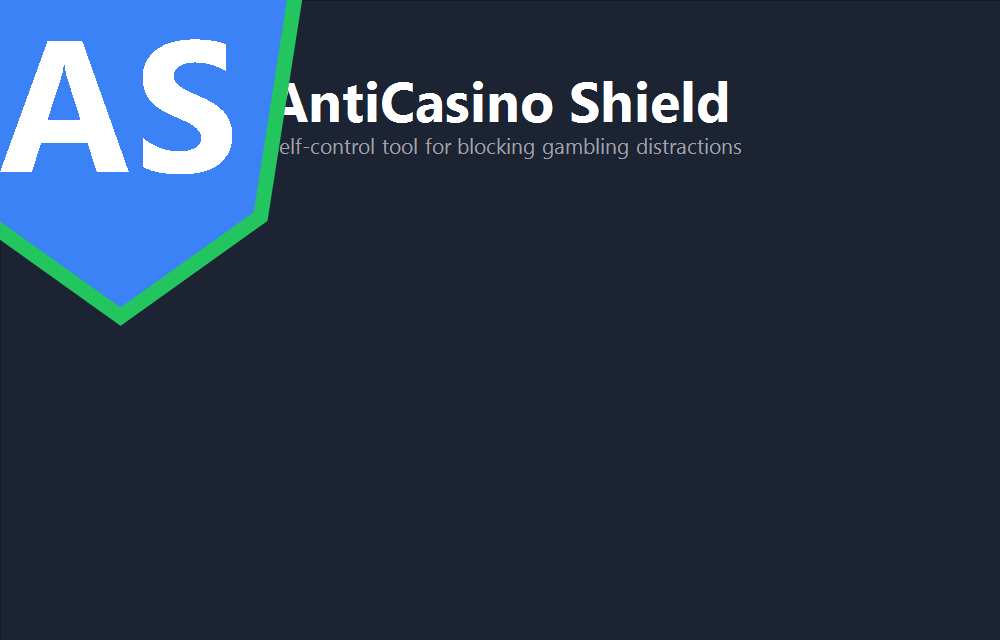
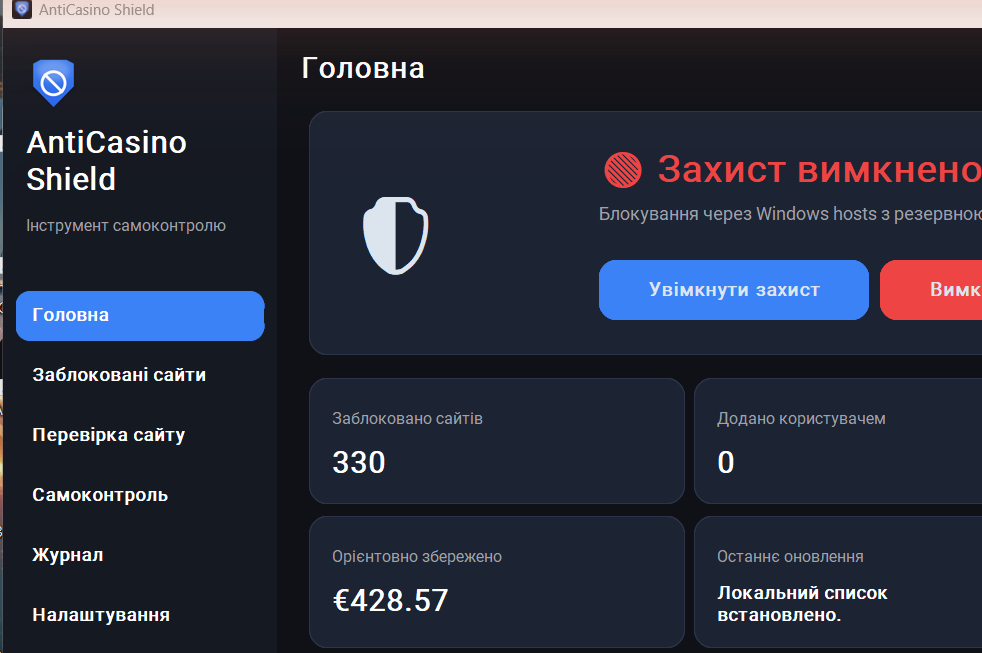
Improve landing page: hero, trust section, SEO, copy cleanup

diff --git a/landing/index.html b/landing/index.html
@@ -3,21 +3,32 @@
 <head>
   <meta charset="utf-8">
   <meta name="viewport" content="width=device-width, initial-scale=1">
-  <title>AntiCasino Shield - Block gambling websites</title>
-  <meta name="description" content="AntiCasino Shield is a free Windows app that helps users block gambling, betting and casino websites, reduce distractions and build healthier digital habits.">
+  <title>AntiCasino Shield — Block Gambling Websites on Windows</title>
+  <meta name="description" content="Free Windows app that blocks gambling, casino and betting websites, tracks days without gambling and estimated savings, and never runs ads or hidden tracking. No account needed.">
   <meta name="theme-color" content="#0F1117">
   <link rel="canonical" href="https://anticasinoshield.com/">
-  <meta property="og:title" content="AntiCasino Shield - Block gambling websites">
+  <meta property="og:title" content="AntiCasino Shield — Block Gambling Websites on Windows">
   <meta property="og:description" content="A free Windows self-control app for blocking gambling, betting and casino websites. No ads, privacy friendly, built for self-control.">
   <meta property="og:image" content="https://anticasinoshield.com/assets/banner.png">
   <meta property="og:type" content="website">
   <meta property="og:url" content="https://anticasinoshield.com/">
   <meta name="twitter:card" content="summary_large_image">
-  <meta name="twitter:title" content="AntiCasino Shield - Block gambling websites">
+  <meta name="twitter:title" content="AntiCasino Shield — Block Gambling Websites on Windows">
   <meta name="twitter:description" content="Free Windows self-control app for blocking gambling, betting and casino websites.">
   <meta name="twitter:image" content="https://anticasinoshield.com/assets/banner.png">
   <link rel="icon" href="assets/favicon.ico">
   <link rel="stylesheet" href="styles.css">
+  <script type="application/ld+json">
+  {
+    "@context": "https://schema.org",
+    "@type": "SoftwareApplication",
+    "name": "AntiCasino Shield",
+    "operatingSystem": "Windows 10, Windows 11",
+    "applicationCategory": "SecurityApplication",
+    "offers": { "@type": "Offer", "price": "0", "priceCurrency": "USD" },
+    "description": "Free Windows app that blocks gambling, casino and betting websites and helps track progress toward reducing gambling."
+  }
+  </script>
 </head>
 <body>
   <header class="site-header">
@@ -39,13 +50,14 @@
   <main id="top">
     <section class="hero">
       <div class="hero-copy">
-        <p class="eyebrow">Free MVP • No ads • Built for self-control</p>
+        <p class="eyebrow">Free forever • No ads • Built for self-control</p>
         <h1>Block gambling websites.<br>Take back control of your time and money.</h1>
-        <p class="subtitle">AntiCasino Shield is a free Windows application designed to help users block gambling, betting and casino websites, reduce distractions and build healthier digital habits.</p>
+        <p class="subtitle">AntiCasino Shield blocks gambling, betting and casino sites at the system level, then tracks your days without gambling and estimated money saved — so self-control has something to show for it.</p>
         <div class="actions">
           <a class="button js-download-link" href="https://github.com/S3rvr/AntiCasino-Shield/releases/download/v1.1.1/AntiCasinoShield_Setup_v1.1.1.exe">Download for Windows</a>
           <a class="button secondary" href="#support">Support project</a>
         </div>
+        <p class="cta-note">Free, no account, no credit card. Windows 10/11, ~20 MB.</p>
         <div class="trust-badges" aria-label="Product trust badges">
           <span>✓ Free to use</span>
           <span>✓ No ads</span>
@@ -55,22 +67,22 @@
         <p class="trust-note">Built for self-control, not surveillance.</p>
       </div>
       <div class="hero-media">
-        <img src="assets/app-screenshot.png" alt="AntiCasino Shield application preview">
+        <img src="assets/app-screenshot.png" alt="AntiCasino Shield home screen showing protection status, blocked site count and days without gambling">
       </div>
     </section>
 
     <section id="why" class="section">
       <div class="section-heading">
         <p class="eyebrow">Why AntiCasino Shield?</p>
-        <h2>Simple, local and focused on trust</h2>
+        <h2>Built to actually work, and easy to trust</h2>
         <p>Most gambling blockers are either expensive, complicated or filled with ads.</p>
-        <p>AntiCasino Shield was created as a simple, privacy-friendly and free alternative focused on self-control and responsible usage.</p>
+        <p>AntiCasino Shield blocks at the system level, keeps everything local, and stays free — with progress you can actually see.</p>
       </div>
       <div class="grid">
-        <article><strong>Privacy First</strong><span>All blocking happens locally on your computer.</span></article>
-        <article><strong>No Ads</strong><span>No intrusive banners or third-party advertising.</span></article>
-        <article><strong>Free MVP</strong><span>The core version remains free for everyone.</span></article>
-        <article><strong>Self-Control</strong><span>Designed to help reduce gambling temptations.</span></article>
+        <article><strong>System-level blocking</strong><span>Uses Windows hosts and browser policy, not a browser extension you could just disable in two clicks.</span></article>
+        <article><strong>No ads, ever</strong><span>No banners, no gambling promotions, no third-party trackers — not now, not later.</span></article>
+        <article><strong>Free, forever</strong><span>Core blocking stays free with no trial period and no paywall on the basics.</span></article>
+        <article><strong>See your progress</strong><span>Days without gambling and estimated money saved, right on the home screen.</span></article>
       </div>
     </section>
 
@@ -108,7 +120,7 @@
       <div class="section-heading">
         <p class="eyebrow">Application Preview</p>
         <h2>Preview the core screens</h2>
-        <p>Real screenshots from the Windows MVP show the main AntiCasino Shield workflow.</p>
+        <p>Real screenshots of the Windows app show the main AntiCasino Shield workflow.</p>
       </div>
       <div class="screenshots-grid">
         <figure><img src="assets/screenshot-home.png" alt="Home screen preview"><figcaption>Home Screen</figcaption></figure>
@@ -140,15 +152,16 @@
 
     <section id="transparency" class="section">
       <div class="section-heading">
-        <p class="eyebrow">Transparency</p>
-        <h2>Clear boundaries, local protection</h2>
+        <p class="eyebrow">Trust &amp; Security</p>
+        <h2>Clear boundaries, nothing hidden</h2>
+        <p>AntiCasino Shield doesn't need your trust on faith — every system change is disclosed before it happens.</p>
       </div>
       <div class="grid">
-        <article>✓ No data collection</article>
-        <article>✓ No browser history tracking</article>
-        <article>✓ Local-only protection</article>
-        <article>✓ Open release notes</article>
-        <article>✓ Easy uninstall</article>
+        <article>✓ No data collection or tracking</article>
+        <article>✓ System changes only when you click enable</article>
+        <article>✓ Administrator rights requested only when needed</article>
+        <article>✓ Open changelog and release notes</article>
+        <article>✓ Standard Windows install and uninstall</article>
       </div>
     </section>
 
@@ -157,8 +170,9 @@
         <p class="eyebrow">Download</p>
         <h2>Windows version</h2>
         <p>Current version: <strong>1.1.1</strong></p>
-        <p>Installer size: about 26 MB</p>
+        <p>Compact installer, no bundled toolbars or extra software.</p>
         <p class="download-note">Always download AntiCasino Shield from the official project page or GitHub Releases.</p>
+        <p class="store-note">🛒 Microsoft Store listing: in progress. Until then, download directly below.</p>
       </div>
       <div class="actions">
         <a class="button js-download-link" href="https://github.com/S3rvr/AntiCasino-Shield/releases">Download for Windows</a>
@@ -196,7 +210,7 @@
     <section id="faq" class="section faq">
       <p class="eyebrow">FAQ</p>
       <h2>Questions before installing</h2>
-      <details><summary>Is AntiCasino Shield free?</summary><p>Yes. The MVP is free, and support is voluntary.</p></details>
+      <details><summary>Is AntiCasino Shield free?</summary><p>Yes. Core blocking is free, and support is voluntary.</p></details>
       <details><summary>Does it collect my data?</summary><p>No. The app works locally and does not send browser history or personal data to a server.</p></details>
       <details><summary>Why does Windows SmartScreen show a warning?</summary><p>AntiCasino Shield is a new application and may not yet have a digital code signature. Always download it from the official project page.</p></details>
       <details><summary>Why can Defender show a warning?</summary><p>New unsigned Windows applications may trigger extra caution from Defender or SmartScreen. This does not automatically mean the file is unsafe, but you should only download it from the official project page or GitHub Releases.</p></details>

diff --git a/landing/styles.css b/landing/styles.css
@@ -99,6 +99,16 @@ a { color: inherit; text-decoration: none; }
   margin: 14px 0 0;
   font-size: 14px;
 }
+.cta-note {
+  color: var(--muted);
+  margin: 10px 0 0;
+  font-size: 13px;
+}
+.store-note {
+  color: var(--muted);
+  margin: 10px 0 0;
+  font-size: 14px;
+}
 .eyebrow {
   margin: 0 0 12px;
   color: var(--green);